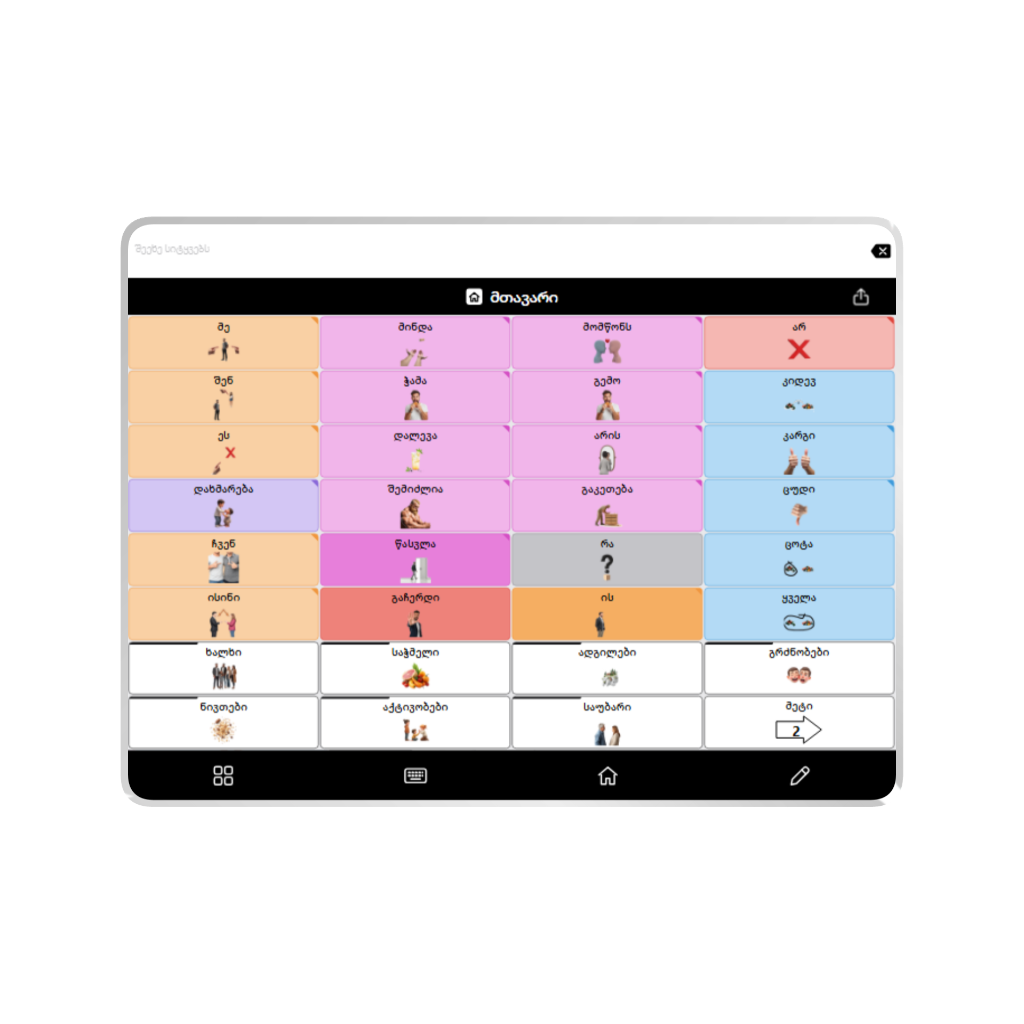
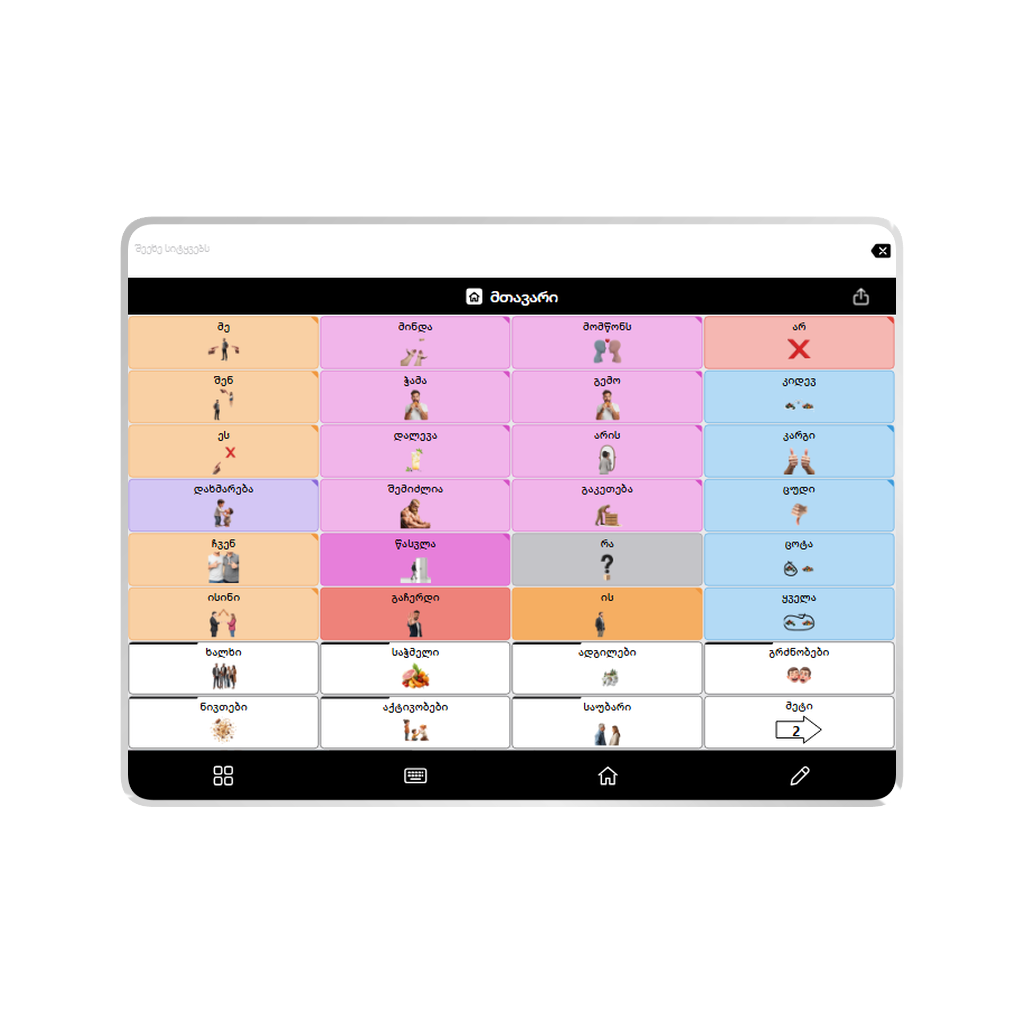
Show the current Khidi board inside the existing tablet frame.
Point the site address and search copy at the live Georgian AAC app on Android and the web.

diff --git a/src/content/ka.ts b/src/content/ka.ts
@@ -5,9 +5,9 @@ export const ka: Dict = {
   ogLocale: "ka_GE",
 
   meta: {
-    homeTitle: "Khidi — კომუნიკაციის აპლიკაცია აუტიზმისთვის",
+    homeTitle: "Khidi — AAC აპლიკაცია აუტიზმისთვის | ალტერნატიული კომუნიკაცია სურათებით",
     homeDescription:
-      "Khidi არის ალტერნატიული კომუნიკაციის (AAC) აპლიკაცია აუტიზმის მქონე ბავშვებისა და მოზრდილებისთვის. შეეხე სურათებს, ააწყვე წინადადება და აპლიკაცია მას ხმამაღლა იტყვის. მუშაობს iPhone-ზე, iPad-ზე, Android-ზე, Windows-ზე და ბრაუზერში.",
+      "Khidi ქართულენოვანი ალტერნატიული კომუნიკაციის (AAC) აპლიკაციაა აუტიზმის მქონე და არავერბალური ბავშვებისა და მოზრდილებისთვის. შეეხე სურათებს, ააწყვე წინადადება — აპლიკაცია ქართულად, ხმამაღლა იტყვის. Android-ზე და ბრაუზერში.",
     keywords: [
       "აუტიზმი",
       "აუტიზმის აპლიკაცია",
@@ -48,8 +48,8 @@ export const ka: Dict = {
   },
 
   hero: {
-    title: "თქვი ეს",
-    titleAccent: "სურათებით.",
+    title: "ალტერნატიული კომუნიკაციის აპლიკაცია აუტიზმისთვის —",
+    titleAccent: "თქვი სურათებით.",
     lead: "Khidi ეხმარება აუტიზმის მქონე ბავშვებსა და მოზრდილებს კომუნიკაციაში. შეეხე სურათს, ააწყვე წინადადება და აპლიკაცია მას ხმამაღლა იტყვის.",
     photoAlt: "Khidi-ს მთავარი ეკრანი პლანშეტზე — სიტყვების ღილაკების ბადე",
   },

diff --git a/src/content/en.ts b/src/content/en.ts
@@ -3,9 +3,9 @@ export const en = {
   ogLocale: "en_US",
 
   meta: {
-    homeTitle: "Khidi — AAC app for autism: speak with pictures",
+    homeTitle: "Khidi — AAC App for Autism in Georgian | Speak with Pictures",
     homeDescription:
-      "Khidi is an AAC communication app for autistic children and adults. Tap pictures, build a sentence, and the app speaks it. Works on iPhone, iPad, Android, Windows and the web.",
+      "Khidi is a Georgian-language AAC app for autistic and non-verbal children and adults. Tap pictures, build a sentence, and Khidi speaks it aloud in Georgian. On Android and the web; iOS and Windows coming soon.",
     keywords: [
       "AAC app",
       "autism communication app",

diff --git a/src/config/site.ts b/src/config/site.ts
@@ -2,7 +2,7 @@
 export const site = {
   name: "Khidi",
   // Production address of the website. Used for canonical links, sitemap and social previews.
-  url: (process.env.NEXT_PUBLIC_SITE_URL ?? "https://www.example.com").replace(/\/$/, ""),
+  url: (process.env.NEXT_PUBLIC_SITE_URL ?? "https://khidi.online.ge").replace(/\/$/, ""),
   email: "hello@example.com",
   // Replace with the real store pages once the app is published.
   stores: {

diff --git a/src/lib/seo.ts b/src/lib/seo.ts
@@ -78,7 +78,7 @@ export function homeJsonLd(lang: Lang) {
     name: site.name,
     description: t.meta.homeDescription,
     applicationCategory: "CommunicationApplication",
-    operatingSystem: "iOS, iPadOS, Android, Windows, Web",
+    operatingSystem: "Android, Web",
     inLanguage: ["ka", "en"],
     url: home,
     image: absoluteUrl("/og.png"),
